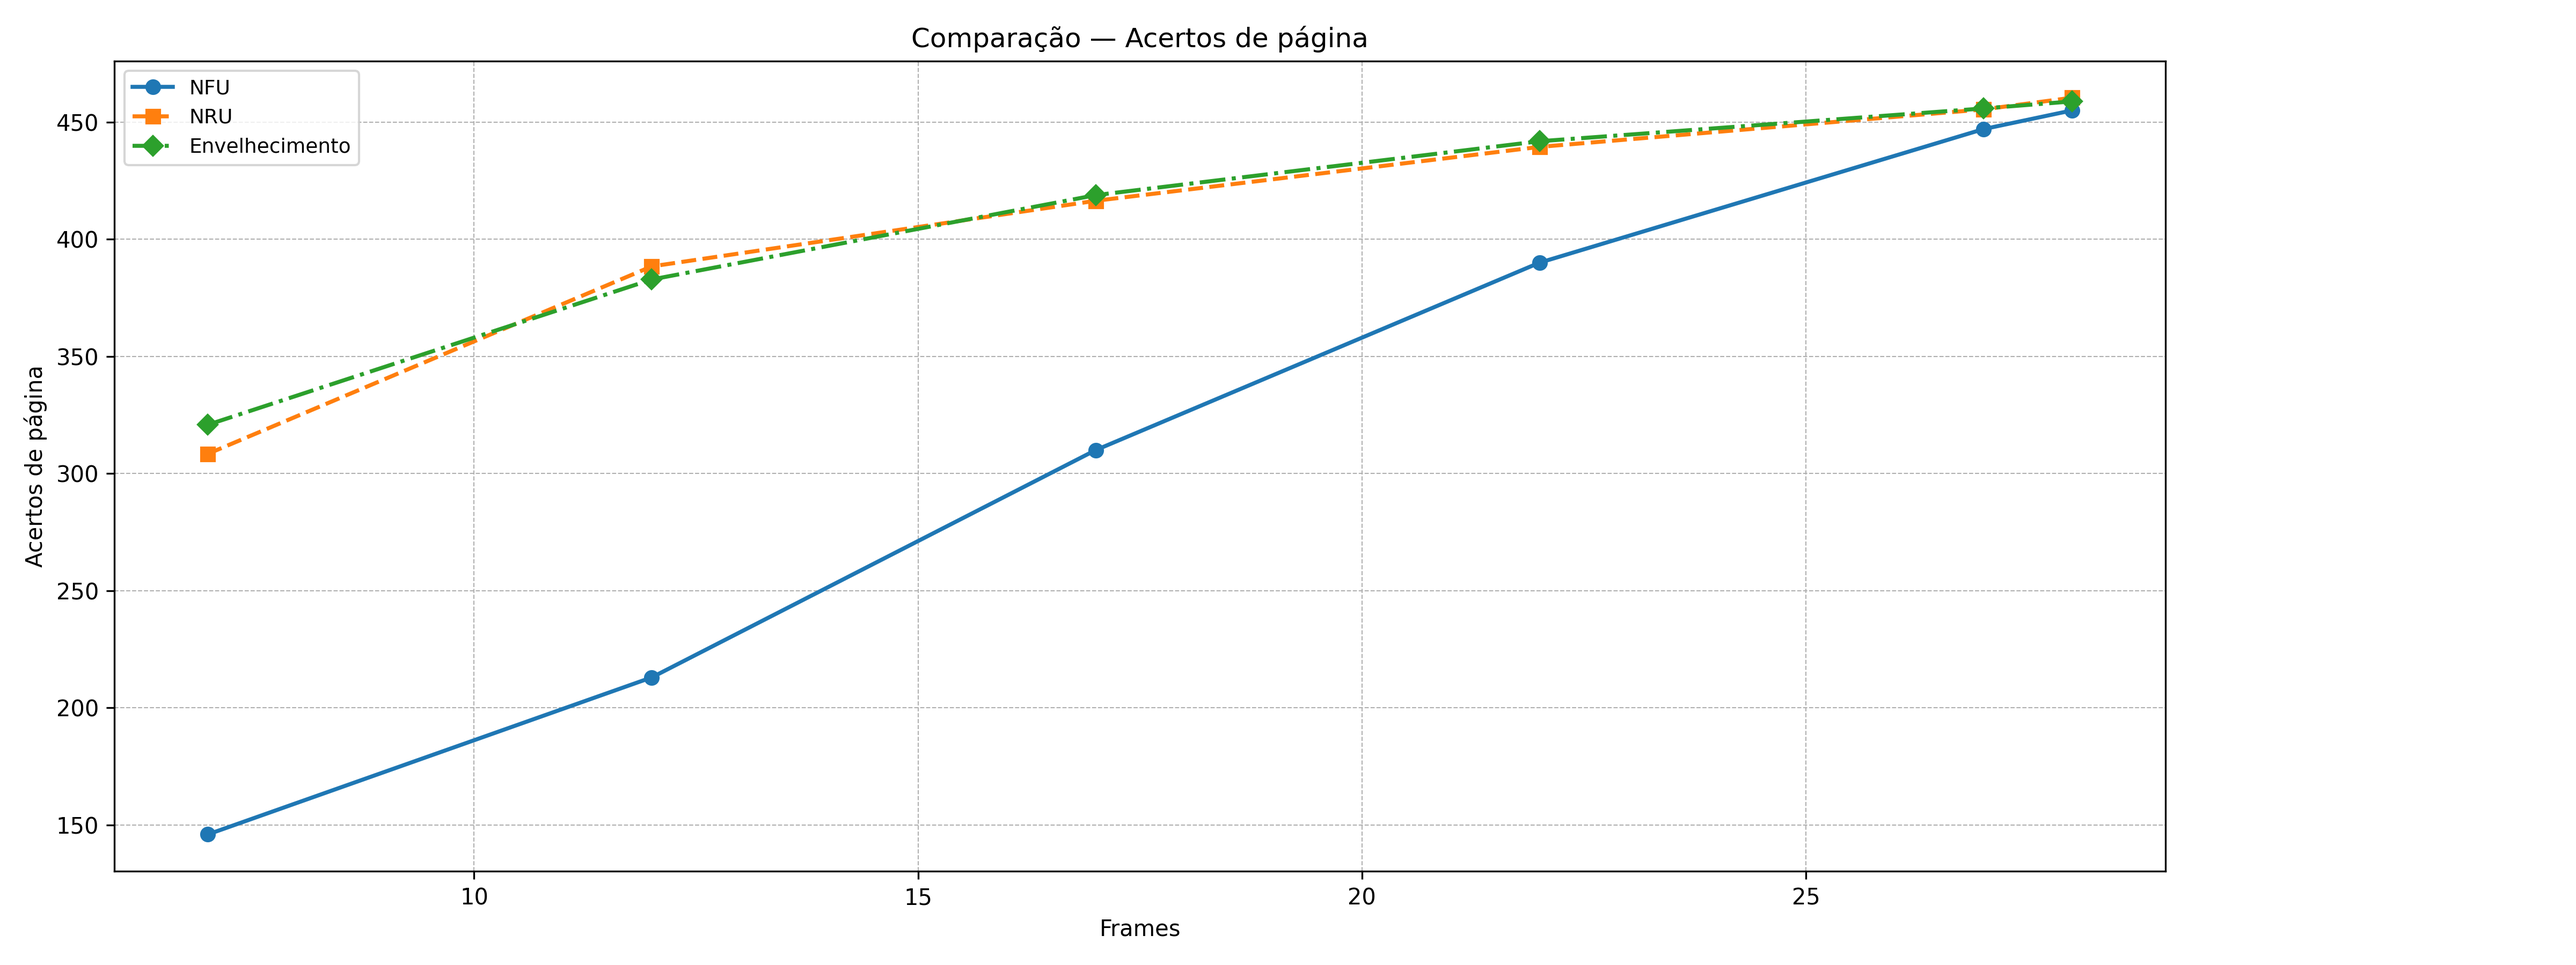
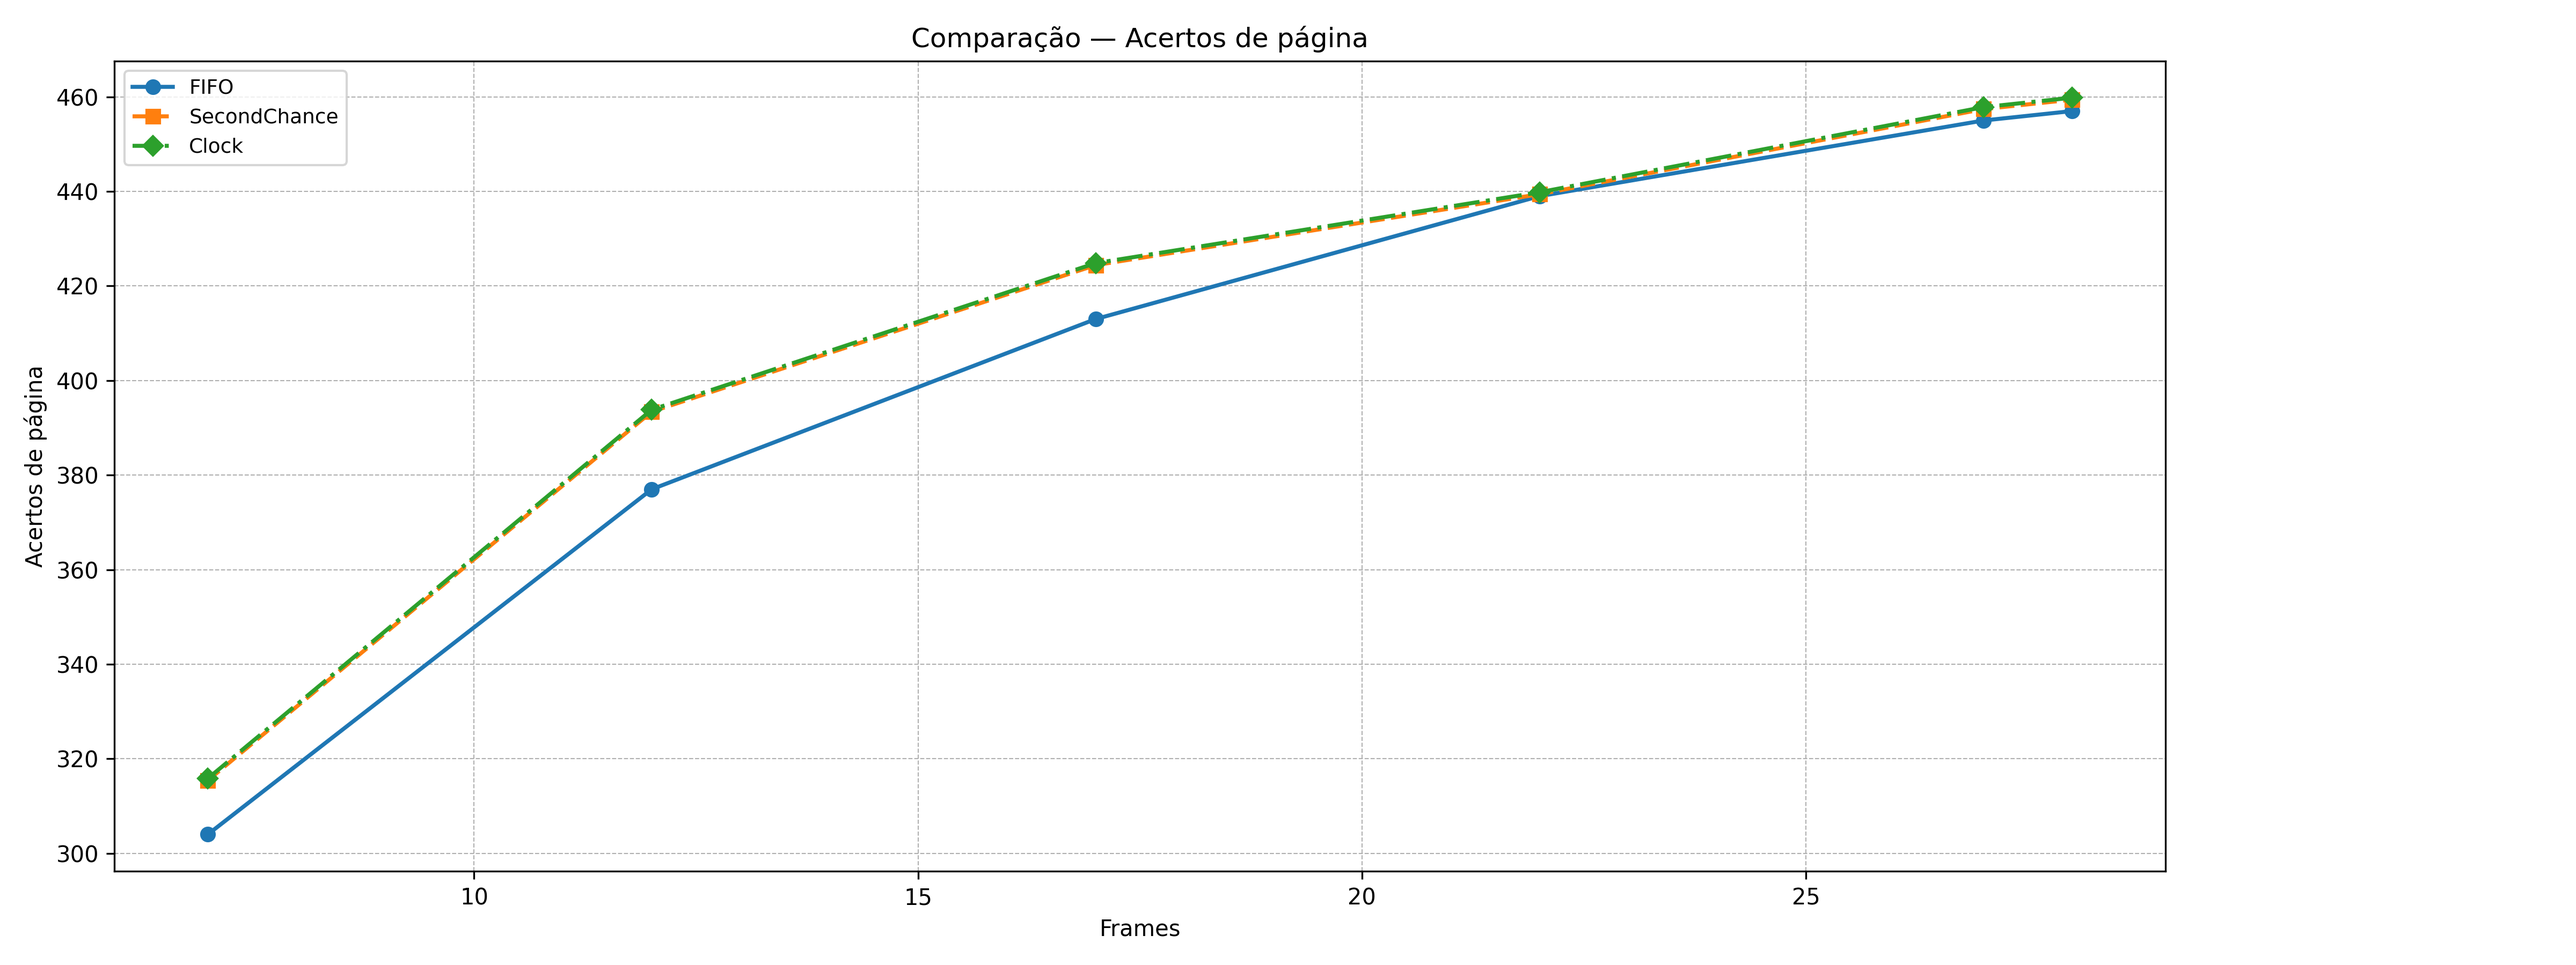
feat: Adiciona resultados

diff --git a/main.py b/main.py
@@ -18,15 +18,15 @@ def main():
     trace, frames_list = make_locality_trace(num_pages=35, trace_length=500, locality_prob=0.85, phase_length=60, working_set_size=8, seed=42)
 
     algos = [
-        # Fifo(),
-        # SecondChance(),
-        # Clock(),
-        NFU(),
+        Fifo(),
+        SecondChance(),
+        Clock(),
+        # NFU(),
         # LRU(),
-        NRU(),
+        # NRU(),
         # WorkingSet(window=4),
         # WSClock(window=4),
-        Aging(bits=8, refresh_every=1),
+        # Aging(bits=8, refresh_every=1),
         # Optimal()
     ]
     benchmarks = []
